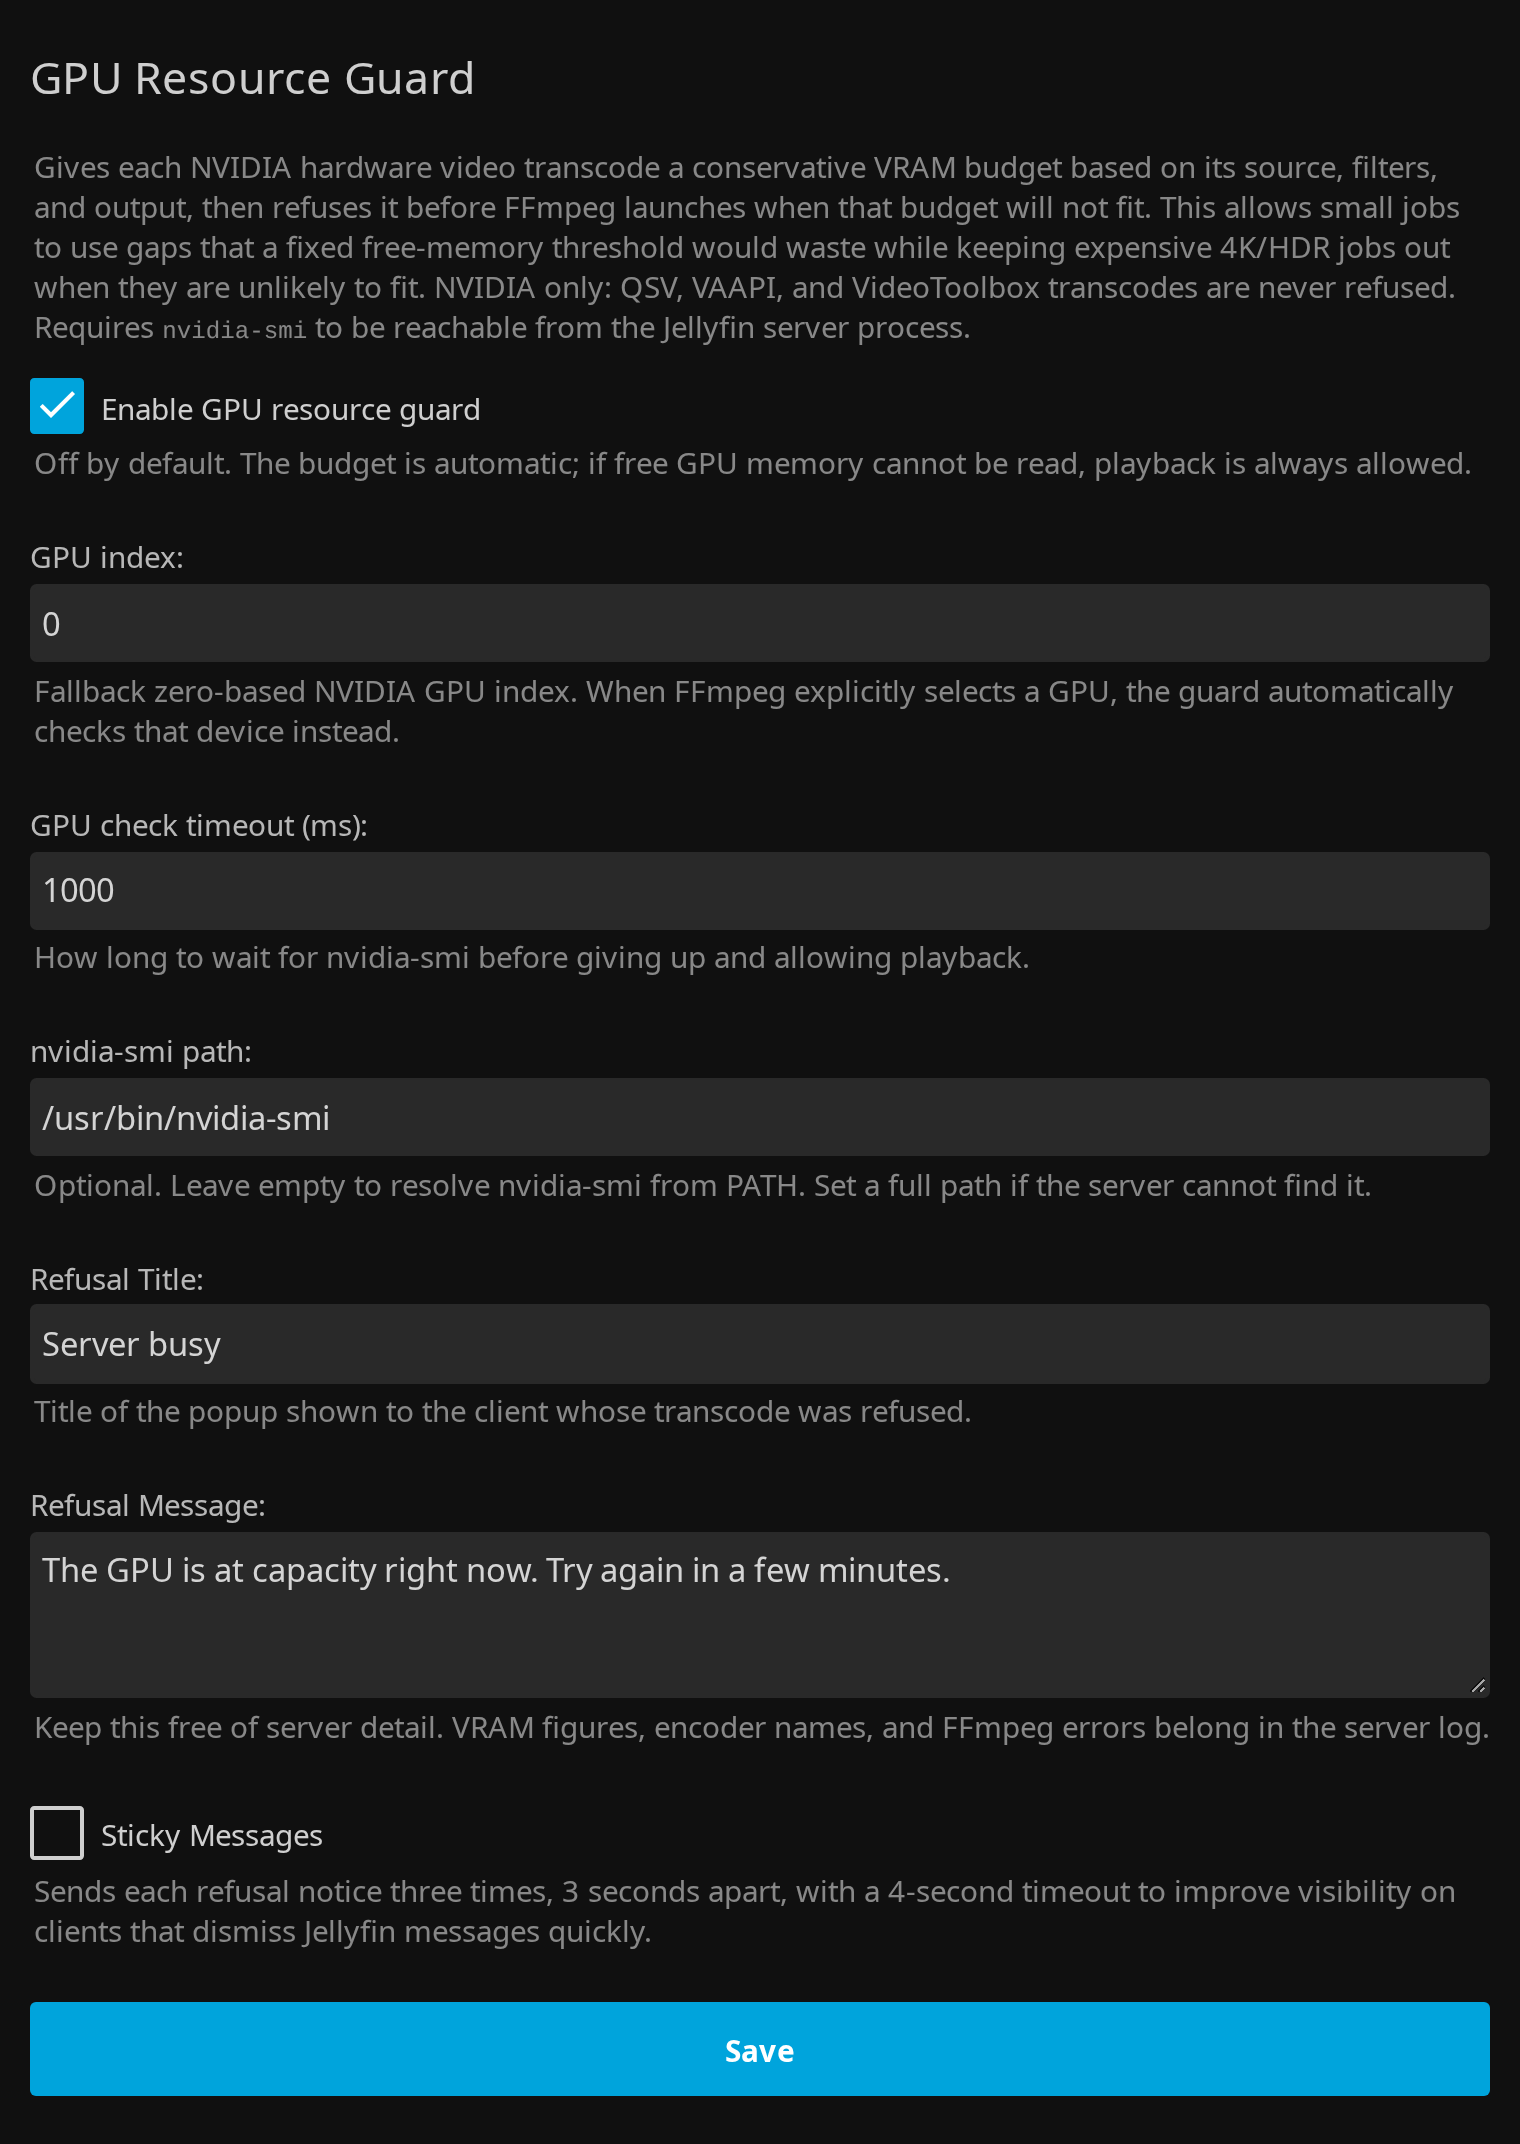
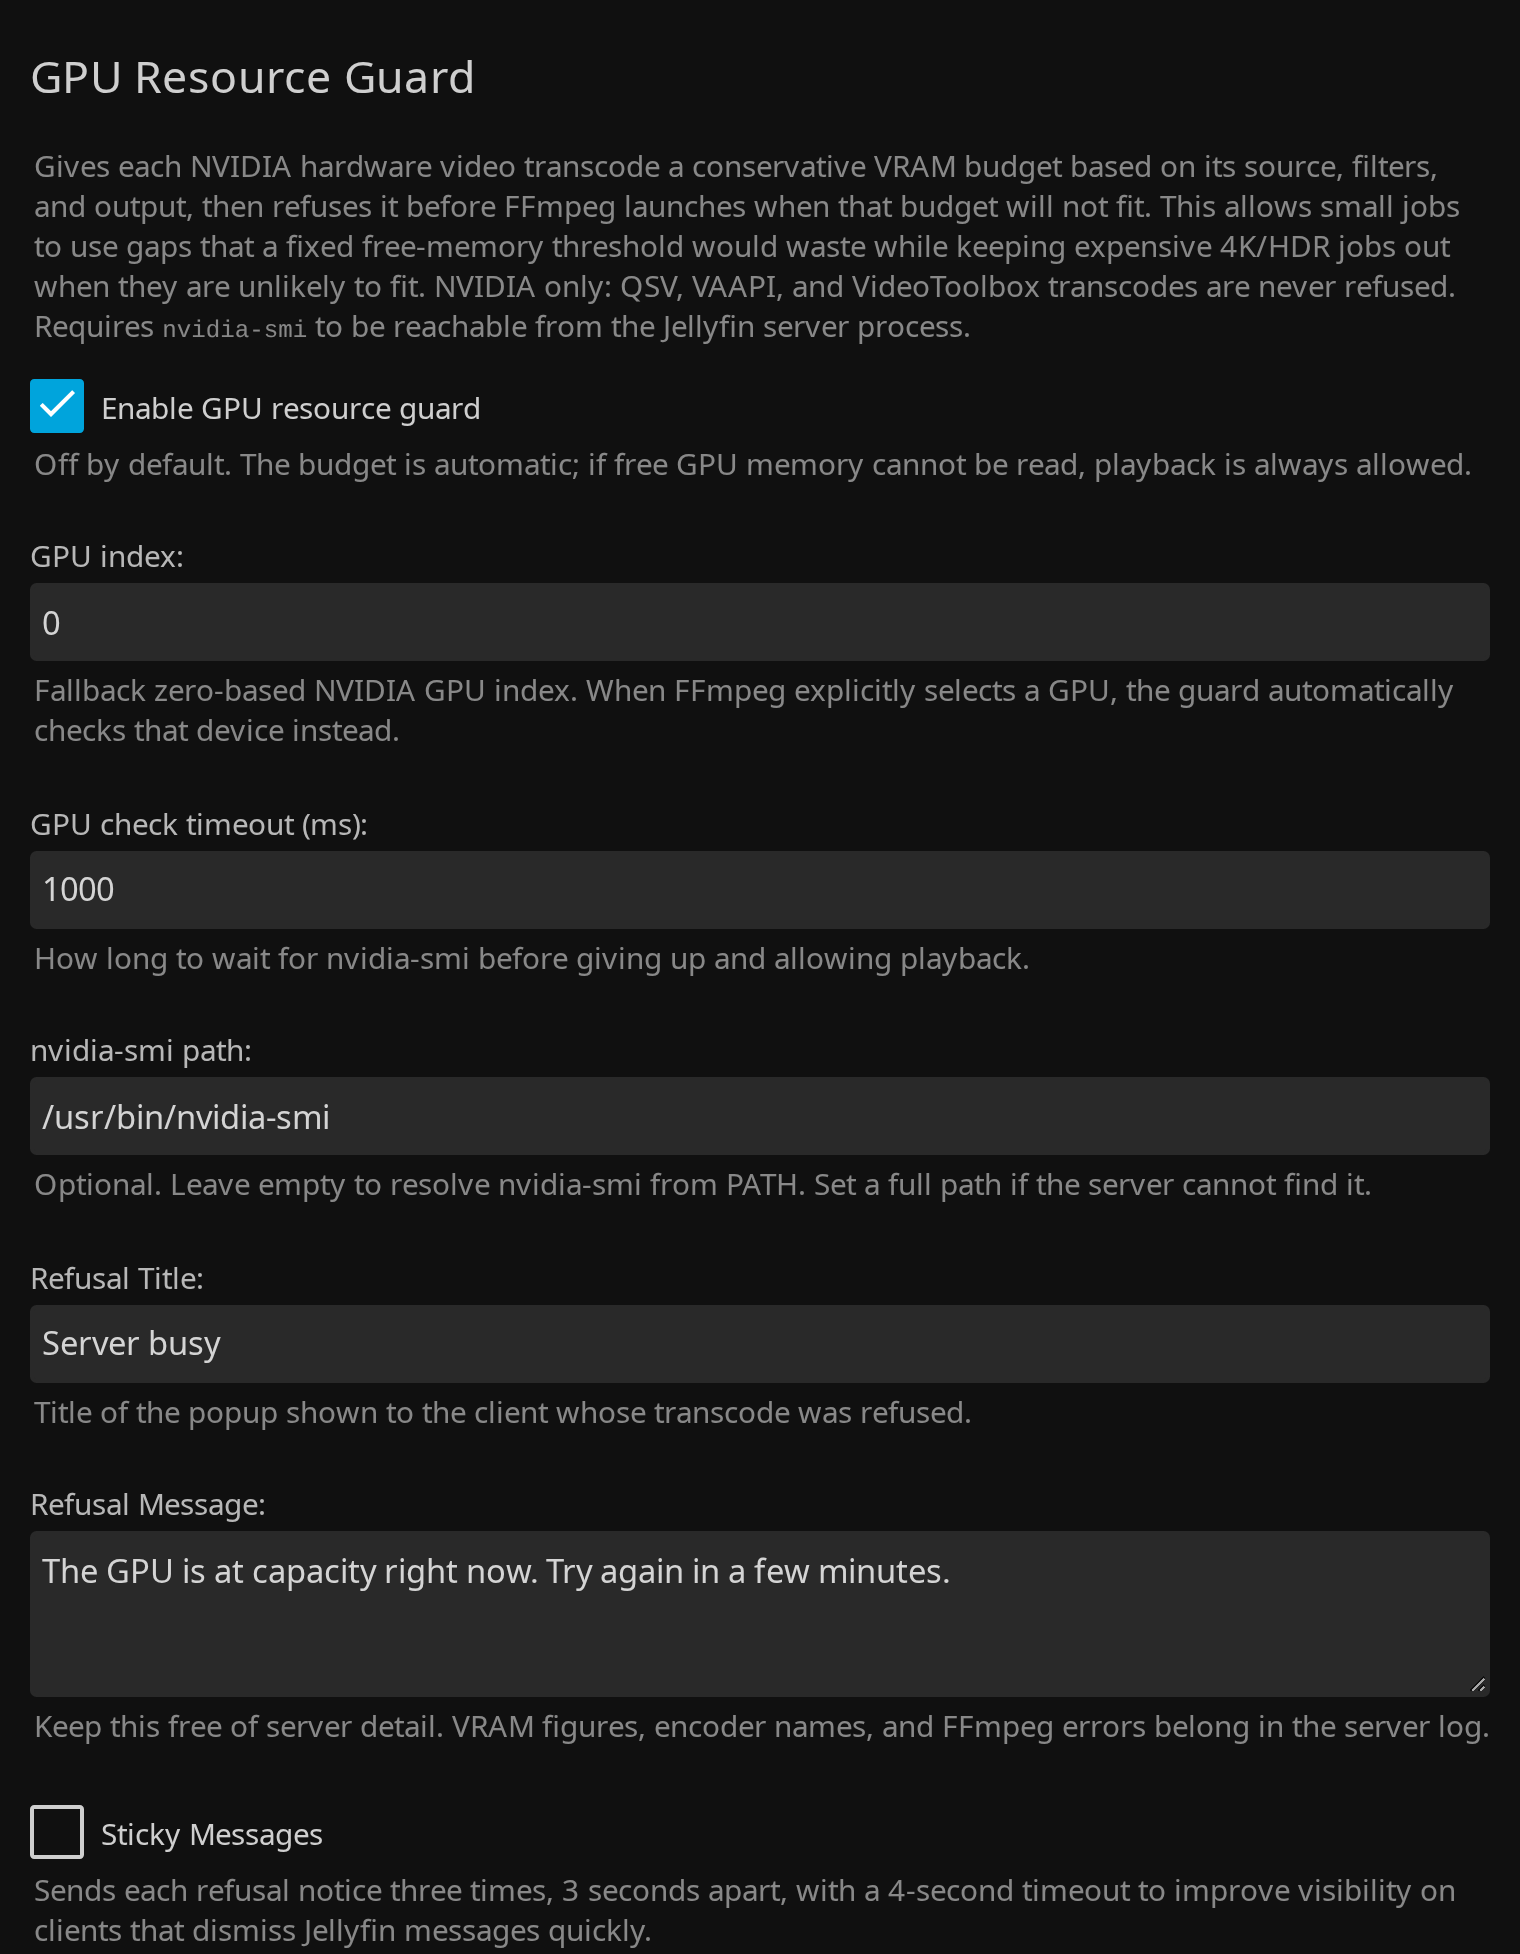
docs(screenshots): add transcode limit and paused reaper config shots [skip ci]
The Transcode Limit and Paused Transcode Reaper sections both shipped without
a screenshot. Each is captured with its enable checkbox on, because off
collapses the section to a lone checkbox with nothing behind it to show.

Transcode Limit sits between the login nag and the user exclusions, so the
login shot now ends at it and the new shot carries the exclusions and the live
session monitor instead. The GPU shot is bounded at the reaper heading: it was
last captured before the reaper existed, and its height cap had started cutting
through the reaper's first checkbox.

diff --git a/README.md b/README.md
@@ -32,10 +32,17 @@ A Jellyfin plugin that intelligently nags users when they're transcoding due to 
 </p>
 
 <p align="center">
-  <img src="docs/images/transcode-guard-login-monitor.png" alt="Transcode Guard login settings, exclusions, and live session monitor in the Jellyfin dashboard" width="880" />
+  <img src="docs/images/transcode-guard-login-monitor.png" alt="Transcode Guard login nag settings in the Jellyfin dashboard" width="880" />
 </p>
 <p align="center">
-  <em>Login nags, user exclusions, and the live session monitor</em>
+  <em>Login nag threshold, time window, and message</em>
+</p>
+
+<p align="center">
+  <img src="docs/images/transcode-guard-transcode-limit.png" alt="Transcode Guard transcode limit settings, user exclusions, and live session monitor in the Jellyfin dashboard" width="880" />
+</p>
+<p align="center">
+  <em>The transcode limit, user exclusions, and the live session monitor</em>
 </p>
 
 <p align="center">
@@ -43,6 +50,13 @@ A Jellyfin plugin that intelligently nags users when they're transcoding due to 
 </p>
 <p align="center">
   <em>GPU resource guard settings</em>
+</p>
+
+<p align="center">
+  <img src="docs/images/transcode-guard-paused-reaper.png" alt="Transcode Guard paused transcode reaper settings in the Jellyfin dashboard" width="880" />
+</p>
+<p align="center">
+  <em>The paused transcode reaper, its warning, and its own exclusion list</em>
 </p>
 
 ## What It Does
